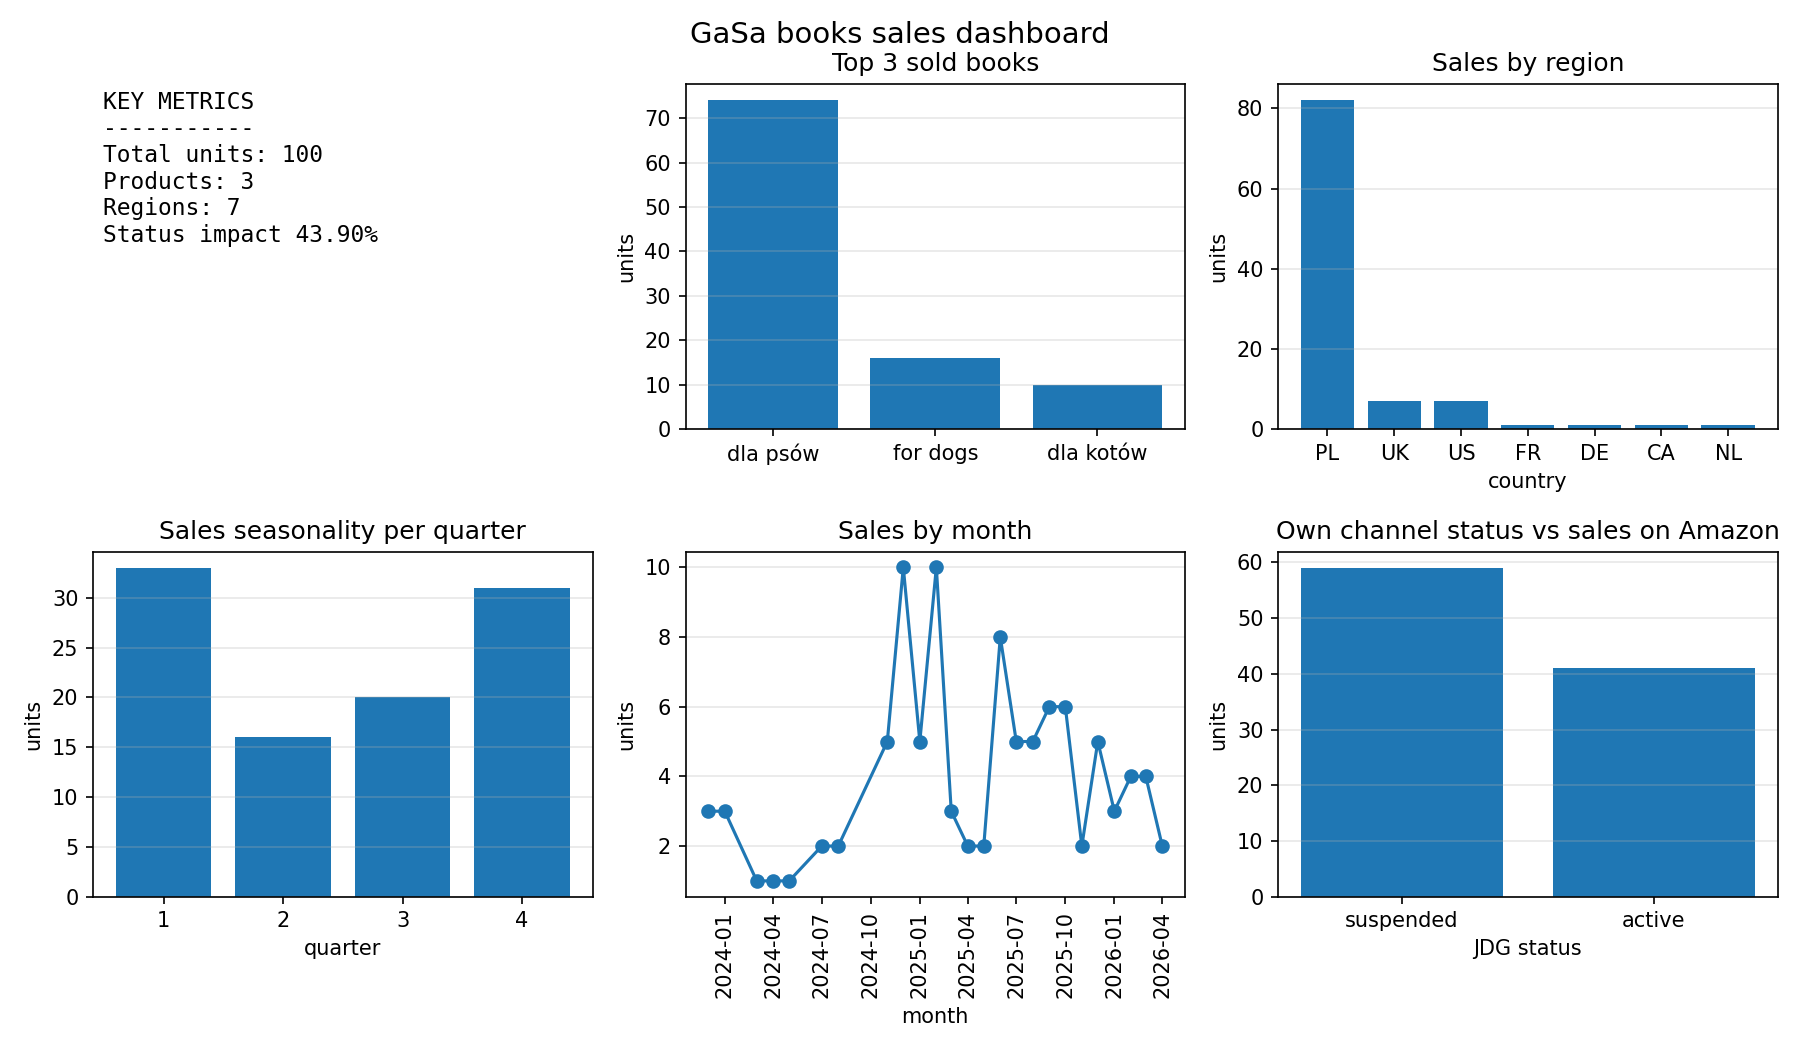
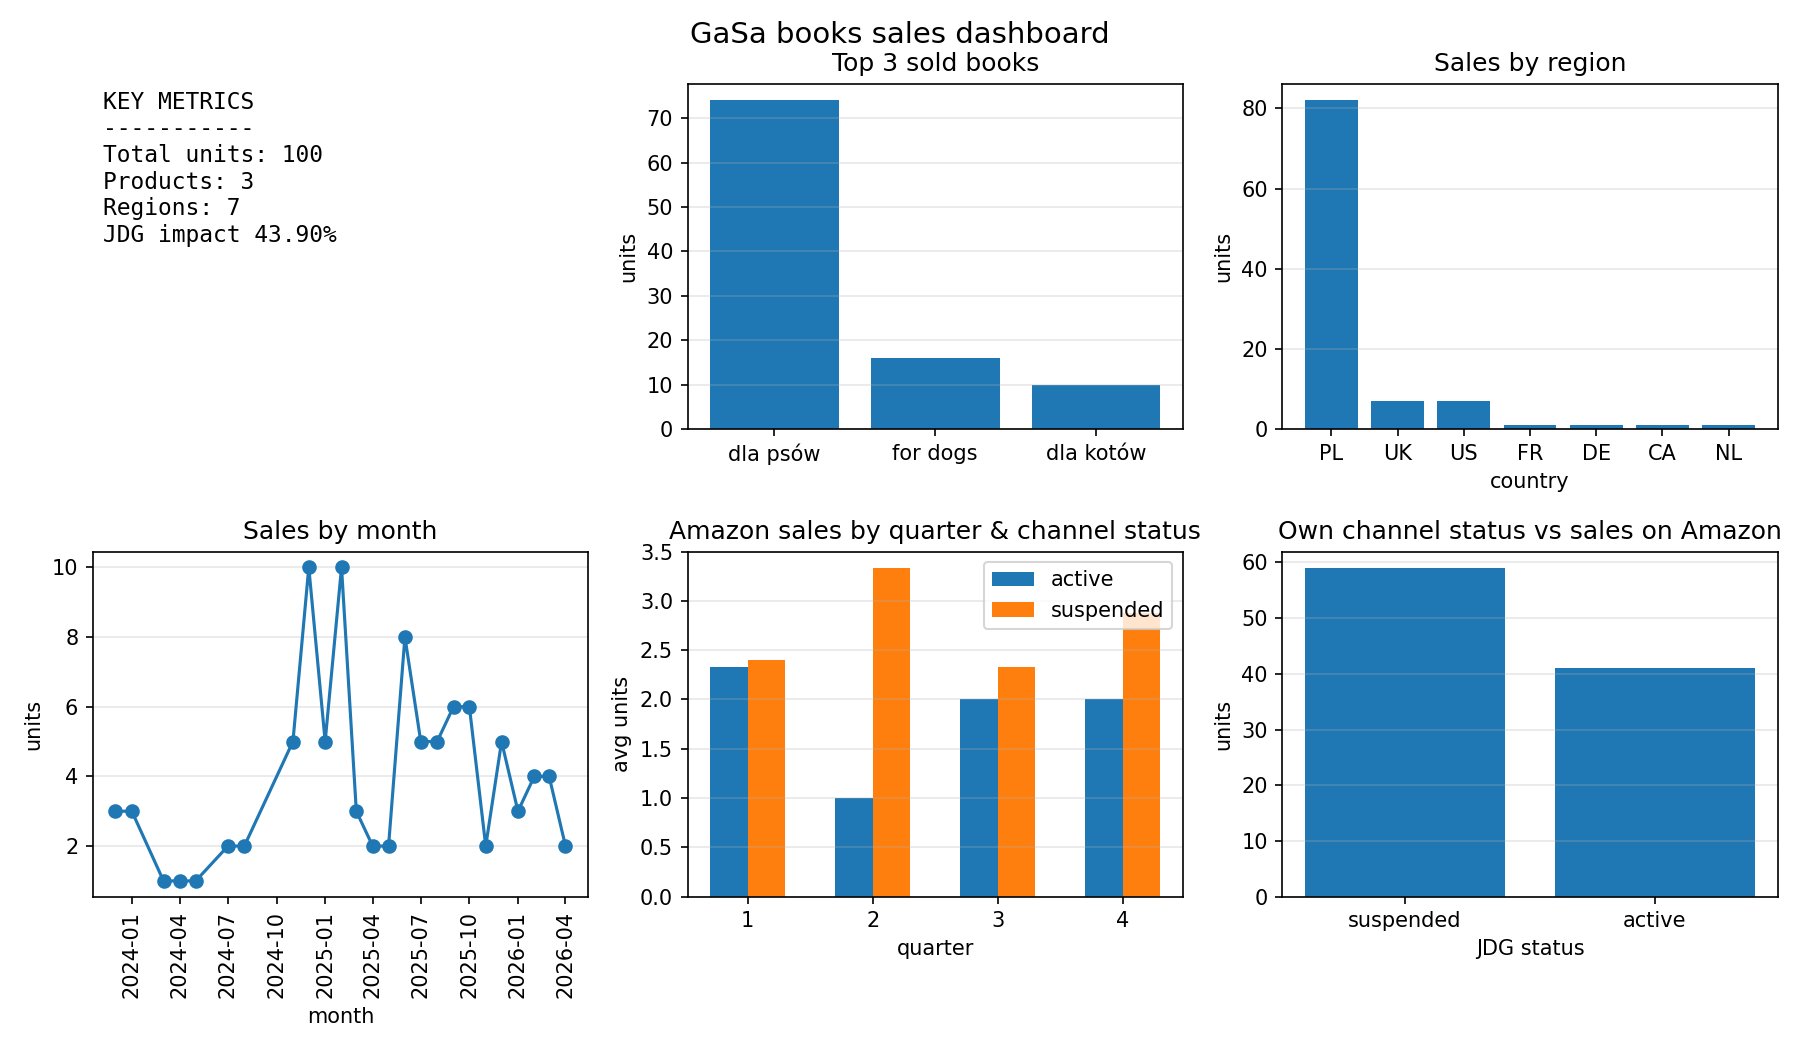
analyze: seasonality and own channel status

diff --git a/src/visualizer.py b/src/visualizer.py
@@ -11,6 +11,7 @@ def save_dashboard(
     df_by_month,
     df_by_quarter,
     df_impact,
+    df_seasonality,
     kpis: dict,
     n_top: int = 3,
     out_dir: str = "reports/figures",
@@ -50,17 +51,37 @@ def save_dashboard(
     axs[0, 2].set_ylabel("units")
     axs[0, 2].grid(axis="y", alpha=0.3)
 
-    axs[1, 0].bar(df_by_quarter["quarter"], df_by_quarter["units_sum"])
-    axs[1, 0].set_title("Sales seasonality per quarter")
-    axs[1, 0].set_xlabel("quarter")
+    # axs[1, 0].bar(df_by_quarter["quarter"], df_by_quarter["units_sum"])
+    # axs[1, 0].set_title("Sales seasonality per quarter")
+    # axs[1, 0].set_xlabel("quarter")
+    # axs[1, 0].set_ylabel("units")
+    # axs[1, 0].grid(axis="y", alpha=0.3)
+
+    axs[1, 0].plot(df_by_month["month"], df_by_month["units_sum"], marker="o")
+    axs[1, 0].set_title("Sales by month")
+    axs[1, 0].set_xlabel("month")
     axs[1, 0].set_ylabel("units")
+    axs[1, 0].tick_params(axis="x", rotation=90)
     axs[1, 0].grid(axis="y", alpha=0.3)
 
-    axs[1, 1].plot(df_by_month["month"], df_by_month["units_sum"], marker="o")
-    axs[1, 1].set_title("Sales by month")
-    axs[1, 1].set_xlabel("month")
-    axs[1, 1].set_ylabel("units")
-    axs[1, 1].tick_params(axis="x", rotation=90)
+    axs[1, 1].bar(
+        df_seasonality[df_seasonality["jdg"] == 1]["quarter"] - 0.15,
+        df_seasonality[df_seasonality["jdg"] == 1]["avg_units"],
+        width=0.3,
+        label="active"
+    )
+
+    axs[1, 1].bar(
+        df_seasonality[df_seasonality["jdg"] == 0]["quarter"] + 0.15,
+        df_seasonality[df_seasonality["jdg"] == 0]["avg_units"],
+        width=0.3,
+        label="suspended"
+    )
+
+    axs[1, 1].set_xlabel("quarter")
+    axs[1, 1].set_title("Amazon sales by quarter & channel status")
+    axs[1, 1].set_ylabel("avg units")
+    axs[1, 1].legend()
     axs[1, 1].grid(axis="y", alpha=0.3)
 
     axs[1, 2].bar(df_impact["status"], df_impact["units_sum"])

diff --git a/src/main.py b/src/main.py
@@ -27,6 +27,8 @@ by_reg = analyzer.by_region()
 by_month = analyzer.by_month()
 by_q = analyzer.by_quarter()
 check_impact = analyzer.amazon_vs_jdg()
+seasonality = analyzer.seasonality_check()
+print("seasonality check:\n", seasonality)
 
 # 4) Visualyze
 os.makedirs("reports/figures", exist_ok=True)
@@ -37,6 +39,7 @@ out = viz.save_dashboard(
     df_by_month=by_month,
     df_by_quarter=by_q,
     df_impact=check_impact,
+    df_seasonality=seasonality,
     kpis=kpis,
     n_top=3,
     out_dir="reports/figures",

diff --git a/src/analyzer.py b/src/analyzer.py
@@ -103,3 +103,11 @@ class SalesAnalyzer:
         print(agg)
         return agg
     
+    def seasonality_check(self):
+        agg = (
+            self.df.groupby(["jdg", "quarter"], as_index=False)
+            .agg(avg_units=("units", "mean"))
+            .sort_values(["quarter", "jdg"])
+        )
+        return agg
+    
